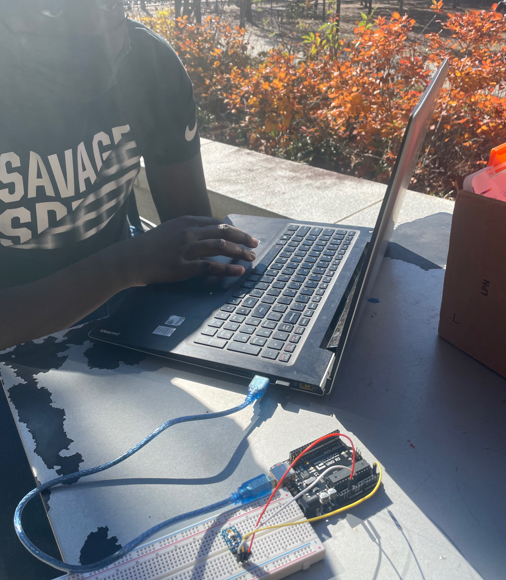
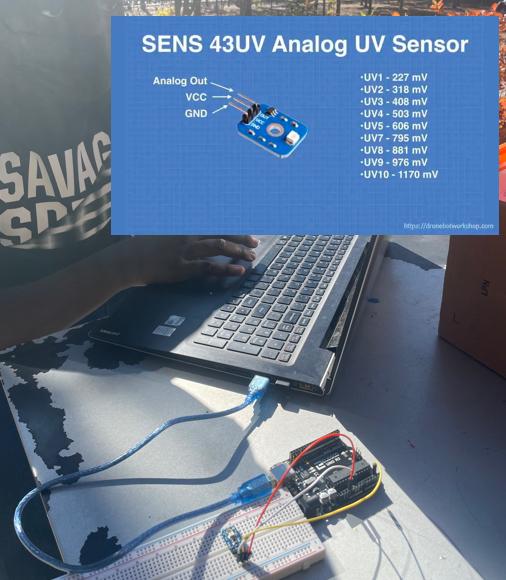
Final edits before the video

Changed region(s): [[0.2075, 0.0, 1.0, 0.4034]]

diff --git a/index.html b/index.html
@@ -83,7 +83,7 @@
                                     data-anchor=".section__testing"
                                 >
                                     <a class="header__menu-link" href="#testing"
-                                        >Testing</a
+                                        >Testing + Research</a
                                     >
                                 </li>
                                 <li
@@ -1307,7 +1307,7 @@
                                 <div
                                     class="testing__title neue-headline2-purple"
                                 >
-                                    Testing
+                                    Testing + Research
                                 </div>
                                 
                                 <div
@@ -1342,10 +1342,12 @@
                                                     <div
                                                         class="
                                                             testing__content-text
-                                                            manrope-text1
+                                                            manrope-text2
                                                         "
                                                     >
-                                                        Nakai and Vaishu worked on researching how to use 
+                                                        The first part of our prototype was aquiring the UV sensor and learning about how to apply the information we receive into meaningful output.<br>
+                                                        Converting voltages into corresponding UV index values, we were able to make code to calculate our LED range. <br><br>
+                                                        <u><a href="https://dronebotworkshop.com/arduino-uv-index-meter/" target="_blank">UV Workshop we followed.</a></u>
                                                     </div>
                                                     <div class="testing__inner">
                                                         <div
@@ -1359,14 +1361,14 @@
                                                                     neue-headline3
                                                                 "
                                                             >
-                                                                Mary Biorick
+                                                                Vaishu + Nakai
                                                             </div>
                                                             <div
                                                                 class="
                                                                     testing__content-company
                                                                 "
                                                             >
-                                                                CEO, Rised Inc.
+                                                                UV Sensor Research
                                                             </div>
                                                         </div>
                                                         <div
@@ -1449,23 +1451,13 @@
                                                     <div
                                                         class="
                                                             testing__content-text
-                                                            manrope-text1
+                                                            manrope-text2
                                                         "
                                                     >
-                                                        Social media long tail
-                                                        venture. Backing
-                                                        traction creative
-                                                        research & development
-                                                        release investor. Churn
-                                                        rate branding iteration
-                                                        gamification buyer
-                                                        incubator return on
-                                                        investment. Pitch
-                                                        technology stock
-                                                        entrepreneur churn rate
-                                                        prototype stealth angel
-                                                        investor learning curve
-                                                        monetization.
+                                                        The next step for the UV sensor was to make sure it reported somewhat accurate values. Being inside at the Hive, Vaishu
+                                                        was able to test and make sure the UV range would be green since it is safe indoors. Here is the Serial monitor displaying an index of 1.<br><br>
+                                                        <u><a href="https://www.animassurgical.com/the-uv-index-and-why-you-should-care-about-it/uv-index/" target="_blank">UV Index Ranges</a></u>
+                                                        
                                                     </div>
                                                     <div class="testing__inner">
                                                         <div
@@ -1479,15 +1471,14 @@
                                                                     neue-headline3
                                                                 "
                                                             >
-                                                                Robert Fox
+                                                                Vaishu
                                                             </div>
                                                             <div
                                                                 class="
                                                                     testing__content-company
                                                                 "
                                                             >
-                                                                President of
-                                                                Sales
+                                                                UV Sensor Testing
                                                             </div>
                                                         </div>
                                                         <div
@@ -1570,22 +1561,12 @@
                                                     <div
                                                         class="
                                                             testing__content-text
-                                                            manrope-text1
+                                                            manrope-text2
                                                         "
                                                     >
-                                                        Disruptive creative
-                                                        gamification graphical
-                                                        user interface alpha
-                                                        business plan market
-                                                        social media
-                                                        infrastructure
-                                                        termsheet. Investor
-                                                        business-to- business
-                                                        startup. Beta
-                                                        infrastructure focus
-                                                        gamification. Termsheet
-                                                        handshake mass market
-                                                        stealth.
+                                                        Vaishu tracked the data of the current day's UV index each time the sensor
+                                                        was tested and mapped it.The LED Response shows which range of color it is in (in this graph, green or yellow) 
+                                                        and circled points are those recorded indoors.<br>Most UV index values were green (because it is winter) except for when she tested in Miami.
                                                     </div>
                                                     <div class="testing__inner">
                                                         <a
@@ -1681,23 +1662,15 @@
                                                     <div
                                                         class="
                                                             testing__content-text
-                                                            manrope-text1
+                                                            manrope-text2
                                                         "
                                                     >
-                                                        Social media long tail
-                                                        venture. Backing
-                                                        traction creative
-                                                        research & development
-                                                        release investor. Churn
-                                                        rate branding iteration
-                                                        gamification buyer
-                                                        incubator return on
-                                                        investment. Pitch
-                                                        technology stock
-                                                        entrepreneur churn rate
-                                                        prototype stealth angel
-                                                        investor learning curve
-                                                        monetization.
+                                                        Our 4th version with a tiny water pump succeeded in dispensing sunscreen! 
+                                                        Observing how even the COVID sanitizing stations use a sensor and pump rather than a motor to push down on a bottle, 
+                                                        we agreed that this was the best method.<br><br> 
+
+                                                        <u><a href="https://create.arduino.cc/projecthub/MissionCritical/diy-hand-sanitizer-dispenser-using-arduino-143de1" target="_blank">Our initial inspiration for the sunscreen pump</a></u>
+
                                                     </div>
                                                     <div class="testing__inner">
                                                         <div
@@ -1711,15 +1684,14 @@
                                                                     neue-headline3
                                                                 "
                                                             >
-                                                                Robert Fox
+                                                                Ben + Matt
                                                             </div>
                                                             <div
                                                                 class="
                                                                     testing__content-company
                                                                 "
                                                             >
-                                                                President of
-                                                                Sales
+                                                                Motor Testing
                                                             </div>
                                                         </div>
                                                         <div
@@ -1802,23 +1774,12 @@
                                                     <div
                                                         class="
                                                             testing__content-text
-                                                            manrope-text1
+                                                            manrope-text2
                                                         "
                                                     >
-                                                        Long tail equity
-                                                        interaction design
-                                                        creative. Deployment
-                                                        paradigm shift rockstar
-                                                        sales supply chain
-                                                        twitter. Monetization
-                                                        success customer
-                                                        iteration iPad early
-                                                        adopters. Research &
-                                                        development A/B testing
-                                                        gen-z stock ramen
-                                                        creative leverage early
-                                                        adopters branding
-                                                        innovator pivot.
+                                                        Outside of Skiles, our SunBot was placed at the staircase to attract passing students and inform them about sunscreen.
+                                                        Strangers came up to our colorful box, asking us about what to do and why it was there.<br>
+                                                        Although the LED showed green, we encouraged people to test out the product and still wear sunscreen!
                                                     </div>
                                                     <div class="testing__inner">
                                                         <div
@@ -1832,15 +1793,14 @@
                                                                     neue-headline3
                                                                 "
                                                             >
-                                                                Jerome Bell
+                                                                Matt + Ben
                                                             </div>
                                                             <div
                                                                 class="
                                                                     testing__content-company
                                                                 "
                                                             >
-                                                                President of
-                                                                Sales
+                                                                User Testing
                                                             </div>
                                                         </div>
                                                         <div

diff --git a/css/main.css b/css/main.css
@@ -5114,7 +5114,7 @@ button.swiper-pagination-bullet {
 
     max-width: 870px;
 
-    height: 580px;
+    height: 500px;
 
     padding: 70px;
 
@@ -5126,7 +5126,7 @@ button.swiper-pagination-bullet {
 
         height: auto;
 
-        min-height: 588px;
+        min-height: 400px;
 
         margin-bottom: 20px;
 
@@ -5137,7 +5137,7 @@ button.swiper-pagination-bullet {
     .testing__content {
         height: auto;
 
-        min-height: 420px;
+        min-height: 300px;
 
         margin-bottom: 20px;
 
@@ -5150,7 +5150,7 @@ button.swiper-pagination-bullet {
 
         height: auto;
 
-        min-height: 408px;
+        min-height: 250px;
 
         margin-bottom: 20px;
 
@@ -5163,7 +5163,7 @@ button.swiper-pagination-bullet {
 
         height: auto;
 
-        min-height: 314px;
+        min-height: 200px;
 
         margin-bottom: 20px;
 
